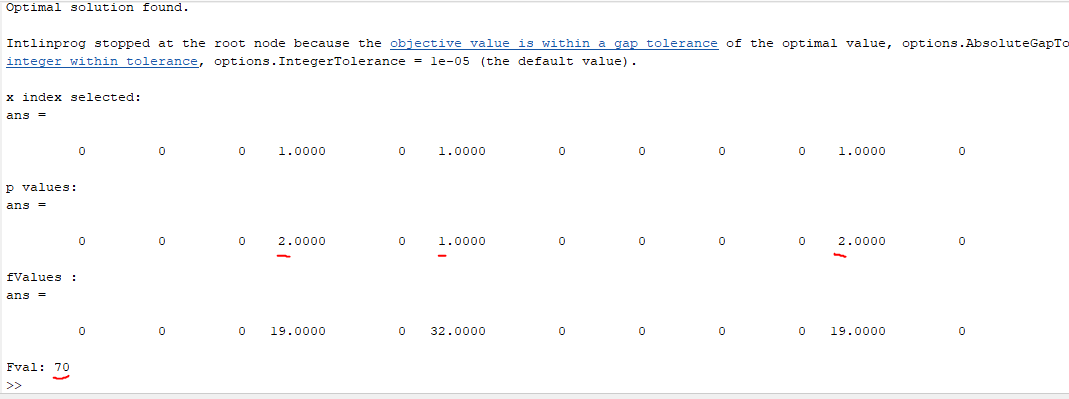
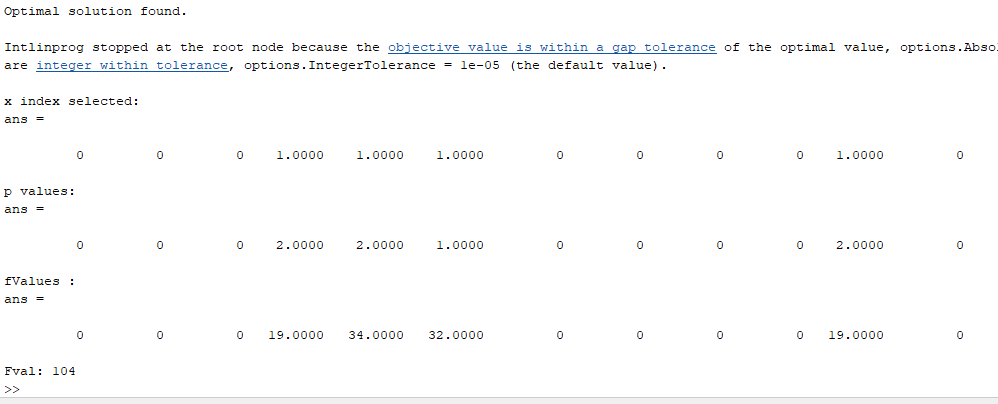
Adding Part 1 snippets

diff --git a/HW/HW1/matlab/homework1.m b/HW/HW1/matlab/homework1.m
@@ -1,20 +1,21 @@
 ET = [5,10,15,5, 10,10,10,10, 15,15,5,5]; % define matricies
-P = [3,3,3,2, 2,1,3,2, 1,2,2,3]; % define matricies
+P = [3,3,3,2, 2,1,3,2, 1,2,2,3]'; % define matricies
 f = 3*ET(:)' + 2*P(:)'; % Apply the equation into a single vector
 numCol = 12; % columns in f
 intcon = 1:numCol; % define values to change
 lb = zeros(numCol,1)'; % set lb to 0s
 ub = ones(numCol,1)'; % limit to binary
-Aeq = [1,1,1,1, 0,0,0,0, 0,0,0,0; 0,0,0,0, 1,1,1,1, 0,0,0,0; 0,0,0,0, 0,0,0,0, 1,1,1,1];
-beq = [1,1,1];
-
-%for n = 1:12
-%    temp = zeros(1,24);
-%    temp(n) = 1;
-%    temp(n+12) = 1;
-%    Aeq = [Aeq; temp];
-%end
-%Aeq= [Aeq; x1_2; x3_4]
+blocks = 3;
+tasks = 4;
+% construct the Aeq
+Aeq = zeros(tasks,numCol);
+for n = 1:tasks
+    for k = 1:blocks
+        scale = n+(tasks*(k-1));
+        Aeq(n, scale) = 1;
+    end
+end
+beq = [1,1,1,1];
 [x, fval] = intlinprog(f, intcon, [], [],Aeq, beq, lb, ub);
 x_i = find(x == 1);
 

diff --git a/HW/HW1/matlab/partC.m b/HW/HW1/matlab/partC.m
@@ -5,12 +5,19 @@ numCol = 12; % columns in f
 intcon = 1:numCol; % define values to change
 lb = zeros(numCol,1)'; % set lb to 0s
 ub = ones(numCol,1)'; % limit to binary
-inputAeq = [1,1,1,1, 0,0,0,0, 0,0,0,0; 0,0,0,0, 1,1,1,1, 0,0,0,0; 0,0,0,0, 0,0,0,0, 1,1,1,1];
-
-Aeq = inputAeq;
-beq = [1,1,1];
+blocks = 3;
+tasks = 4;
+% construct the Aeq
+Aeq = zeros(tasks,numCol);
+for n = 1:tasks
+    for k = 1:blocks
+        scale = n+(tasks*(k-1));
+        Aeq(n, scale) = 1;
+    end
+end
+beq = [1,1,1,1];
 A = P(:)'; 
-b = 4;
+b = 7;
 [x, fval] = intlinprog(f, intcon, A, b,Aeq, beq, lb, ub);
 fprintf("x index selected: ");
 x'
